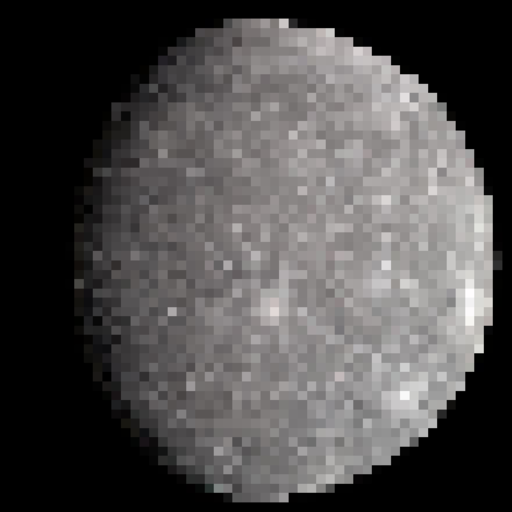
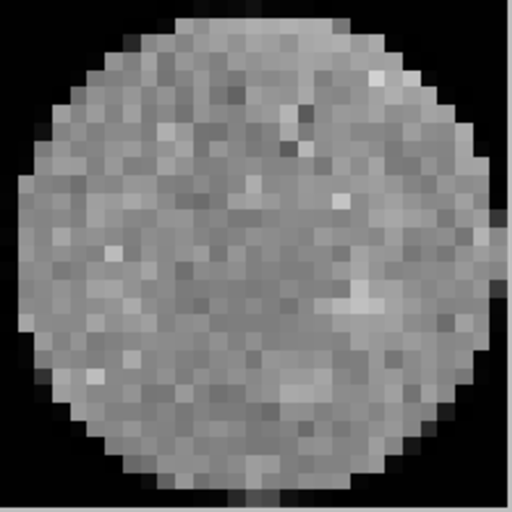
sprites
a

diff --git a/ProjectsSFML1_test/GameObjects.cpp b/ProjectsSFML1_test/GameObjects.cpp
@@ -3,175 +3,177 @@
 #include <vector>
 #include "GameObjects.h"
 
-MovingCircle::MovingCircle(float radius, float angle, float speed, float size, sf::Color color, float mass, int id, bool walkable)
-        : radius(radius), angle(angle), speed(speed), mass(mass), size(size), id(id), walkable(walkable) {
-        shape.setRadius(size);
-        shape.setFillColor(color);
-        shape.setOrigin(size, size);  // Set origin to center
+MovingCircle::MovingCircle(float radius, float angle, float speed, float size, const std::string& textureFile, float mass, int id, bool walkable)
+    : radius(radius), angle(angle), speed(speed), mass(mass), size(size), id(id), walkable(walkable) {
+    shape.setRadius(size);
+    shape.setOrigin(size, size);  // Center the shape
+
+    sprite.setOrigin(256, 256); // Center the sprite (512/2)
+    sprite.setScale((2 * size) / 512.0f, (2 * size) / 512.0f); // Scale to match circle size
+}
+
+
+void MovingCircle::update(float deltaTime, const sf::Vector2f& center) {
+    angle += speed * deltaTime; // Move the angle by speed
+    position = sf::Vector2f(center.x + radius * std::cos(angle), center.y + radius * std::sin(angle));
+    shape.setPosition(position); // For debugging or placeholder
+    sprite.setPosition(position); // Update sprite position
+
+    for (auto& building : buildings) {
+        building.updatePosition(position, size);  // update all buildings
     }
+}
 
-    // Update position around the central point
-    void MovingCircle::update(float deltaTime, const sf::Vector2f& center) {
-        angle += speed * deltaTime; // Move the angle by speed
-        position = sf::Vector2f(center.x + radius * std::cos(angle), center.y + radius * std::sin(angle));
-        shape.setPosition(
-            position
-            //center.x + radius * std::cos(angle),
-            //center.y + radius * std::sin(angle)
-        );
+// Draw the rocket to the window
+void MovingCircle::draw(sf::RenderWindow& window) const {
+    // Draw all buildings on the planet
+    for (const auto& building : buildings) {
+        building.draw(window);
+    }
+    window.draw(sprite); // Draw the sprite
+    // window.draw(shape); // Optional: for debugging, draw the circle
+}
 
-        for (auto& building : buildings) {
-            building.updatePosition(position, size);  // update all buldings
+// Calculate G force from planet
+sf::Vector2f MovingCircle::calculateGravityForce(const sf::Vector2f& point) const {
+    sf::Vector2f position = shape.getPosition();
+    sf::Vector2f direction = point - position; // Direction vector from circle to point
+    float distanceSquared = direction.x * direction.x + direction.y * direction.y;
+
+    if (distanceSquared == 0) return sf::Vector2f(0.f, 0.f); // Avoid division by zero
+
+    float distance = std::sqrt(distanceSquared);
+    float forceMagnitude = (50 * mass) / distanceSquared; // Gravitational force magnitude
+
+    // Normalize direction and scale by force magnitude
+    sf::Vector2f force = (direction / distance) * forceMagnitude;
+    return force;
+}
+
+// Calculate the linear velocity of the planet
+sf::Vector2f MovingCircle::getLinearVelocity(sf::Vector2f center) {
+    float orbitRadius = std::hypot(center.x - shape.getPosition().x, center.y - shape.getPosition().y);;
+    float linearSpeed = speed * orbitRadius;
+    sf::Vector2f velocity(
+        -linearSpeed * std::sin(angle), // Perpendicular to the orbit (cos(angle + π/2))
+        linearSpeed * std::cos(angle)
+    );
+    return velocity;
+}
+
+// Clicked?
+bool MovingCircle::isClicked(sf::Vector2f mousePosition) {
+    float dist = std::hypot(mousePosition.x - shape.getPosition().x, mousePosition.y - shape.getPosition().y);
+    return dist <= shape.getRadius();
+}
+
+// Add building
+void MovingCircle::addBuilding(const std::string name, float angle) {
+    // Check if a building with the same name already exists
+    for (auto& building : buildings) {
+        if (building.name == name) {
+            return;  // Building already exists
         }
     }
-    // Draw the rocket to the window
-    void MovingCircle::draw(sf::RenderWindow& window) const {
-        // Draw all buildings on the planet
-        for (const auto& building : buildings) {
-            building.draw(window);
+
+    // Add the new building
+    buildings.emplace_back(name, angle);
+}
+
+bool MovingCircle::checkAndDestroyBuilding(float collisionAngle, float planetRadius) {
+    for (auto it = buildings.begin(); it != buildings.end(); ++it) {
+        // Calculate the angular range of the building
+        float buildingAngle = it->angle;
+        float halfAngularWidth = it->getAngularWidth(planetRadius) / 2.0f;
+
+        // Check if the collision angle is within the building's angular range
+        if (collisionAngle >= buildingAngle - halfAngularWidth &&
+            collisionAngle <= buildingAngle + halfAngularWidth) {
+            buildings.erase(it);  // Destroy the building
+            return true;          // Building was destroyed
         }
-        window.draw(shape);
     }
-    // Calculate G force from planet
-    sf::Vector2f MovingCircle::calculateGravityForce(const sf::Vector2f& point) const {
-        sf::Vector2f position = shape.getPosition();
-        sf::Vector2f direction = point - position; // Direction vector from circle to point
-        float distanceSquared = direction.x * direction.x + direction.y * direction.y;
+    return false;  // No building destroyed
+}
 
-        if (distanceSquared == 0) return sf::Vector2f(0.f, 0.f); // Avoid division by zero
 
-        float distance = std::sqrt(distanceSquared);
-        float forceMagnitude = (50 * mass) / distanceSquared; // Gravitational force magnitude
+Rocket::Rocket(float startX, float startY, float mass, unsigned int ID, sf::Vector2f initVelocity, const mission& associatedMission)
+    : position(startX, startY), velocity(initVelocity), acceleration(0.f, 0.f), tiltAngle(0.0f), mass(mass), ID(ID), thrustPower(10.f), thrustMultiplier(1.f), associatedMission(associatedMission) {
+    shape.setRadius(5.f);
+    shape.setFillColor(sf::Color::Blue);
+    shape.setOrigin(5.f, 5.f); // Center the shape
+    shape.setPosition(position);
 
-        // Normalize direction and scale by force magnitude
-        sf::Vector2f force = (direction / distance) * forceMagnitude;
-        return force;
+    // Flame graphics
+    flame.setRadius(2.5f);
+    flame.setFillColor(sf::Color::Red);
+    flame.setOrigin(flame.getRadius(), flame.getRadius());
+}
+
+void Rocket::update(float deltaTime, const std::vector<sf::Vector2f>& forces) {
+    // Compute net gravitational force
+    sf::Vector2f netForce(0.f, 0.f);
+    for (const auto& force : forces) {
+        netForce += force;
     }
+    // Thrust
+    float thrustReal = thrustPower * thrustMultiplier;
+    sf::Vector2f thrust(std::cos(tiltAngle) * thrustReal, std::sin(tiltAngle) * thrustReal);
+    netForce += thrust;
+    // Calculate acceleration (F = ma -> a = F / m)
+    sf::Vector2f newAcceleration = -(netForce / mass);
 
-    // Calculate the linear velocity of the planet
-    sf::Vector2f MovingCircle::getLinearVelocity(sf::Vector2f center) {
-        float orbitRadius = std::hypot(center.x - shape.getPosition().x, center.y - shape.getPosition().y);;
-        float linearSpeed = speed * orbitRadius;
-        sf::Vector2f velocity(
-            -linearSpeed * std::sin(angle), // Perpendicular to the orbit (cos(angle + π/2))
-            linearSpeed * std::cos(angle)
-        );
-        return velocity;
-    }
+    // Apply velocity Verlet integration
+    position += velocity * deltaTime + 0.5f * acceleration * deltaTime * deltaTime;
+    sf::Vector2f nextVelocity = velocity + 0.5f * (acceleration + newAcceleration) * deltaTime;
 
-    // Clicked?
-    bool MovingCircle::isClicked(sf::Vector2f mousePosition) {
-        float dist = std::hypot(mousePosition.x - shape.getPosition().x, mousePosition.y - shape.getPosition().y);
-        return dist <= shape.getRadius();
-    }
+    // Update velocity and acceleration
+    velocity = nextVelocity;
+    acceleration = newAcceleration;
 
-    // Add building
-    void MovingCircle::addBuilding(const std::string name, float angle) {
-        // Check if a building with the same name already exists
-        for (auto& building : buildings) {
-            if (building.name == name) {
-                return;  // Building already exists
-            }
-        }
+    // Update rocket's position
+    shape.setPosition(position);
+    flame.setPosition(position + sf::Vector2f(std::cos(tiltAngle), std::sin(tiltAngle)) * 10.f);
+}
 
-        // Add the new building
-        buildings.emplace_back(name, angle);
-    }
+// Draw the rocket to the window
+void Rocket::draw(sf::RenderWindow& window) const {
+    window.draw(shape);
+    window.draw(flame);
+}
+void Rocket::setTiltAngle(const sf::Vector2f& start, const sf::Vector2f& target) {
+    sf::Vector2f direction = target - start;
+    tiltAngle = std::atan2(direction.y, direction.x); // Calculate angle in radians
+}
 
-    bool MovingCircle::checkAndDestroyBuilding(float collisionAngle, float planetRadius) {
-        for (auto it = buildings.begin(); it != buildings.end(); ++it) {
-            // Calculate the angular range of the building
-            float buildingAngle = it->angle;
-            float halfAngularWidth = it->getAngularWidth(planetRadius) / 2.0f;
-
-            // Check if the collision angle is within the building's angular range
-            if (collisionAngle >= buildingAngle - halfAngularWidth &&
-                collisionAngle <= buildingAngle + halfAngularWidth) {
-                buildings.erase(it);  // Destroy the building
-                return true;          // Building was destroyed
-            }
-        }
-        return false;  // No building destroyed
-    }
+// Check collision with a circle
+bool Rocket::checkCollision(const sf::CircleShape& circle) {
+    float distance = std::hypot(circle.getPosition().x - position.x, circle.getPosition().y - position.y);
+    return distance < (shape.getRadius() + circle.getRadius());
+}
 
 
-    Rocket::Rocket(float startX, float startY, float mass, unsigned int ID, sf::Vector2f initVelocity, const mission& associatedMission)
-        : position(startX, startY), velocity(initVelocity), acceleration(0.f, 0.f), tiltAngle(0.0f), mass(mass), ID(ID), thrustPower(10.f), thrustMultiplier(1.f), associatedMission(associatedMission) {
-        shape.setRadius(5.f);
-        shape.setFillColor(sf::Color::Blue);
-        shape.setOrigin(5.f, 5.f); // Center the shape
-        shape.setPosition(position);
+// Constructor
+Building::Building(const std::string& name, float angle)
+    : name(name), angle(angle), size(10.f) {
+    shape.setRadius(size);            // Pink circle to represent the building
+    shape.setFillColor(sf::Color::Magenta);
+    shape.setOrigin(shape.getRadius(), shape.getRadius());
+}
 
-        // Flame graphics
-        flame.setRadius(2.5f);
-        flame.setFillColor(sf::Color::Red);
-        flame.setOrigin(flame.getRadius(), flame.getRadius());
-    }
+// Update position of the building based on the planet's center and radius
+void Building::updatePosition(const sf::Vector2f& center, float radius) {
+    float x = center.x + std::cos(angle) * radius;
+    float y = center.y + std::sin(angle) * radius;
+    shape.setPosition(x, y);
+}
 
-    void Rocket::update(float deltaTime, const std::vector<sf::Vector2f>& forces) {
-        // Compute net gravitational force
-        sf::Vector2f netForce(0.f, 0.f);
-        for (const auto& force : forces) {
-            netForce += force;
-        }
-        // Thrust
-        float thrustReal = thrustPower * thrustMultiplier;
-        sf::Vector2f thrust(std::cos(tiltAngle) * thrustReal, std::sin(tiltAngle) * thrustReal);
-        netForce += thrust;
-        // Calculate acceleration (F = ma -> a = F / m)
-        sf::Vector2f newAcceleration = -(netForce / mass);
+// Draw the building
+void Building::draw(sf::RenderWindow& window) const {
+    window.draw(shape);
+}
 
-        // Apply velocity Verlet integration
-        position += velocity * deltaTime + 0.5f * acceleration * deltaTime * deltaTime;
-        sf::Vector2f nextVelocity = velocity + 0.5f * (acceleration + newAcceleration) * deltaTime;
-
-        // Update velocity and acceleration
-        velocity = nextVelocity;
-        acceleration = newAcceleration;
-
-        // Update rocket's position
-        shape.setPosition(position);
-        flame.setPosition(position + sf::Vector2f(std::cos(tiltAngle), std::sin(tiltAngle)) * 10.f);
-    }
-
-    // Draw the rocket to the window
-    void Rocket::draw(sf::RenderWindow& window) const {
-        window.draw(shape);
-        window.draw(flame);
-    }
-    void Rocket::setTiltAngle(const sf::Vector2f& start, const sf::Vector2f& target) {
-        sf::Vector2f direction = target - start;
-        tiltAngle = std::atan2(direction.y, direction.x); // Calculate angle in radians
-    }
-
-    // Check collision with a circle
-    bool Rocket::checkCollision(const sf::CircleShape& circle) {
-        float distance = std::hypot(circle.getPosition().x - position.x, circle.getPosition().y - position.y);
-        return distance < (shape.getRadius() + circle.getRadius());
-    }
-
-
-    // Constructor
-    Building::Building(const std::string& name, float angle)
-        : name(name), angle(angle), size(10.f) {
-        shape.setRadius(size);            // Pink circle to represent the building
-        shape.setFillColor(sf::Color::Magenta);
-        shape.setOrigin(shape.getRadius(), shape.getRadius());
-    }
-
-    // Update position of the building based on the planet's center and radius
-    void Building::updatePosition(const sf::Vector2f& center, float radius) {
-        float x = center.x + std::cos(angle) * radius;
-        float y = center.y + std::sin(angle) * radius;
-        shape.setPosition(x, y);
-    }
-
-    // Draw the building
-    void Building::draw(sf::RenderWindow& window) const {
-        window.draw(shape);
-    }
-
-    // Calculate the angular width of the building on the planet
-    float Building::getAngularWidth(float planetRadius) const {
-        return 2.0f * std::asin(size / planetRadius);
-    }
+// Calculate the angular width of the building on the planet
+float Building::getAngularWidth(float planetRadius) const {
+    return 2.0f * std::asin(size / planetRadius);
+}

diff --git a/ProjectsSFML1_test/GameManager.cpp b/ProjectsSFML1_test/GameManager.cpp
@@ -5,6 +5,8 @@
 #include <iostream>
 #include <cmath>
 
+std::map<std::string, sf::Texture> textures; // Store textures
+
 GameManager::GameManager()
     : window(sf::VideoMode(Resolution.x, Resolution.y), "Skoki prototyp", sf::Style::Fullscreen),
     center(0.f, 0.f),
@@ -14,18 +16,31 @@ GameManager::GameManager()
     view.setCenter(cameraPosition);
     int circleID = 1;
 
-    // Initialize circles
+    // Load textures
+    std::vector<std::string> textureFiles = { "pixelarty/kerbol.png", "pixelarty/moho.png","pixelarty/eve.png","pixelarty/kerbin.png" ,"pixelarty/duna.png", "pixelarty/jool.png" };
+    for (const auto& file : textureFiles) {
+        sf::Texture texture;
+        if (!texture.loadFromFile(file)) {
+            throw std::runtime_error("Failed to load " + file);
+        }
+        textures[file] = texture;
+    }
+
+    // Initialize planets
     for (int i = 0; i < 5; ++i) {
         float radius = 100 + i * 85;
         float angle = i;
         float speed = 50.0f / radius;
         float size = 25.0f + i * 2.0f;
         float mass = size * size;
-        circles.emplace_back(radius, angle, speed, size, sf::Color::Green, mass, circleID++, 1);
+        std::string textureFile = textureFiles[i % textureFiles.size()+1];
+        circles.emplace_back(radius, angle, speed, size, textureFile, mass, circleID++, 1);
+        circles.back().sprite.setTexture(textures[textureFile]); // Set the preloaded texture
     }
 
     // Add Sun
-    circles.emplace_back(0, 0, 0.0f, 35, sf::Color::Yellow, 35 * 35, 0, 0);
+    circles.emplace_back(0, 0, 0.0f, 35, "pixelarty/kerbol.png", 35 * 35, 0, 0);
+    circles.back().sprite.setTexture(textures["pixelarty/kerbol.png"]);
 
     // Load font
     if (!font.loadFromFile("arial.ttf")) {

diff --git a/ProjectsSFML1_test/GameObjects.h b/ProjectsSFML1_test/GameObjects.h
@@ -39,9 +39,11 @@ public:
     float size;     // Size of the planet
     int id;         // Id of the planet
     bool walkable;  // Can it have buildings
+    sf::Texture texture;
+    sf::Sprite sprite;
     sf::Vector2f position = sf::Vector2f(0, 0);
 
-    MovingCircle(float radius, float angle, float speed, float size, sf::Color color, float mass, int id, bool walkable);  //Constructor
+    MovingCircle(float radius, float angle, float speed, float size, const std::string& textureFile, float mass, int id, bool walkable);  //Constructor
     void update(float deltaTime, const sf::Vector2f& center); // Updates planets position based on time and point its orbiting
     void draw(sf::RenderWindow& window) const;  // Draws planets graphic
     sf::Vector2f calculateGravityForce(const sf::Vector2f& point) const; // Calculate planets gravity on specified point 
